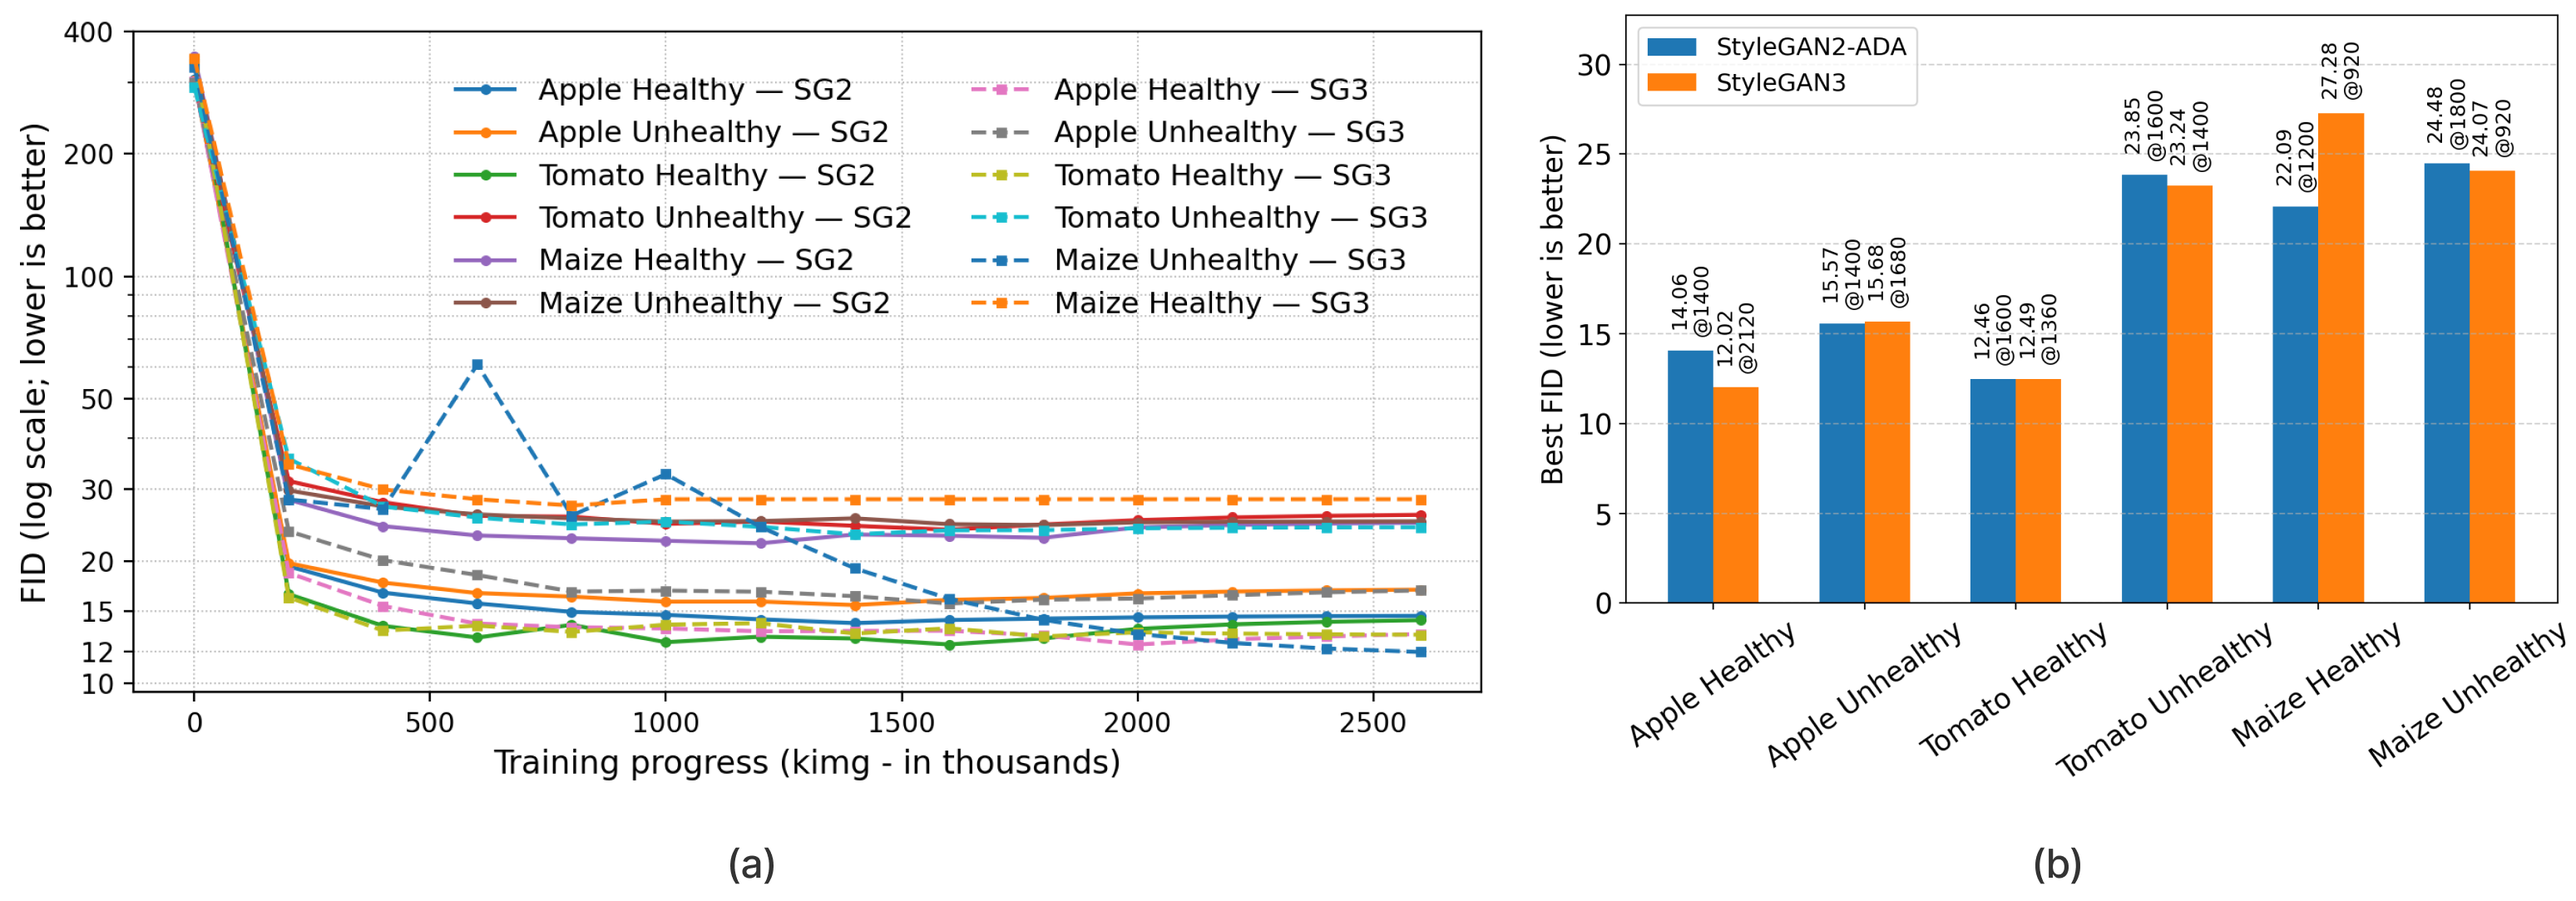
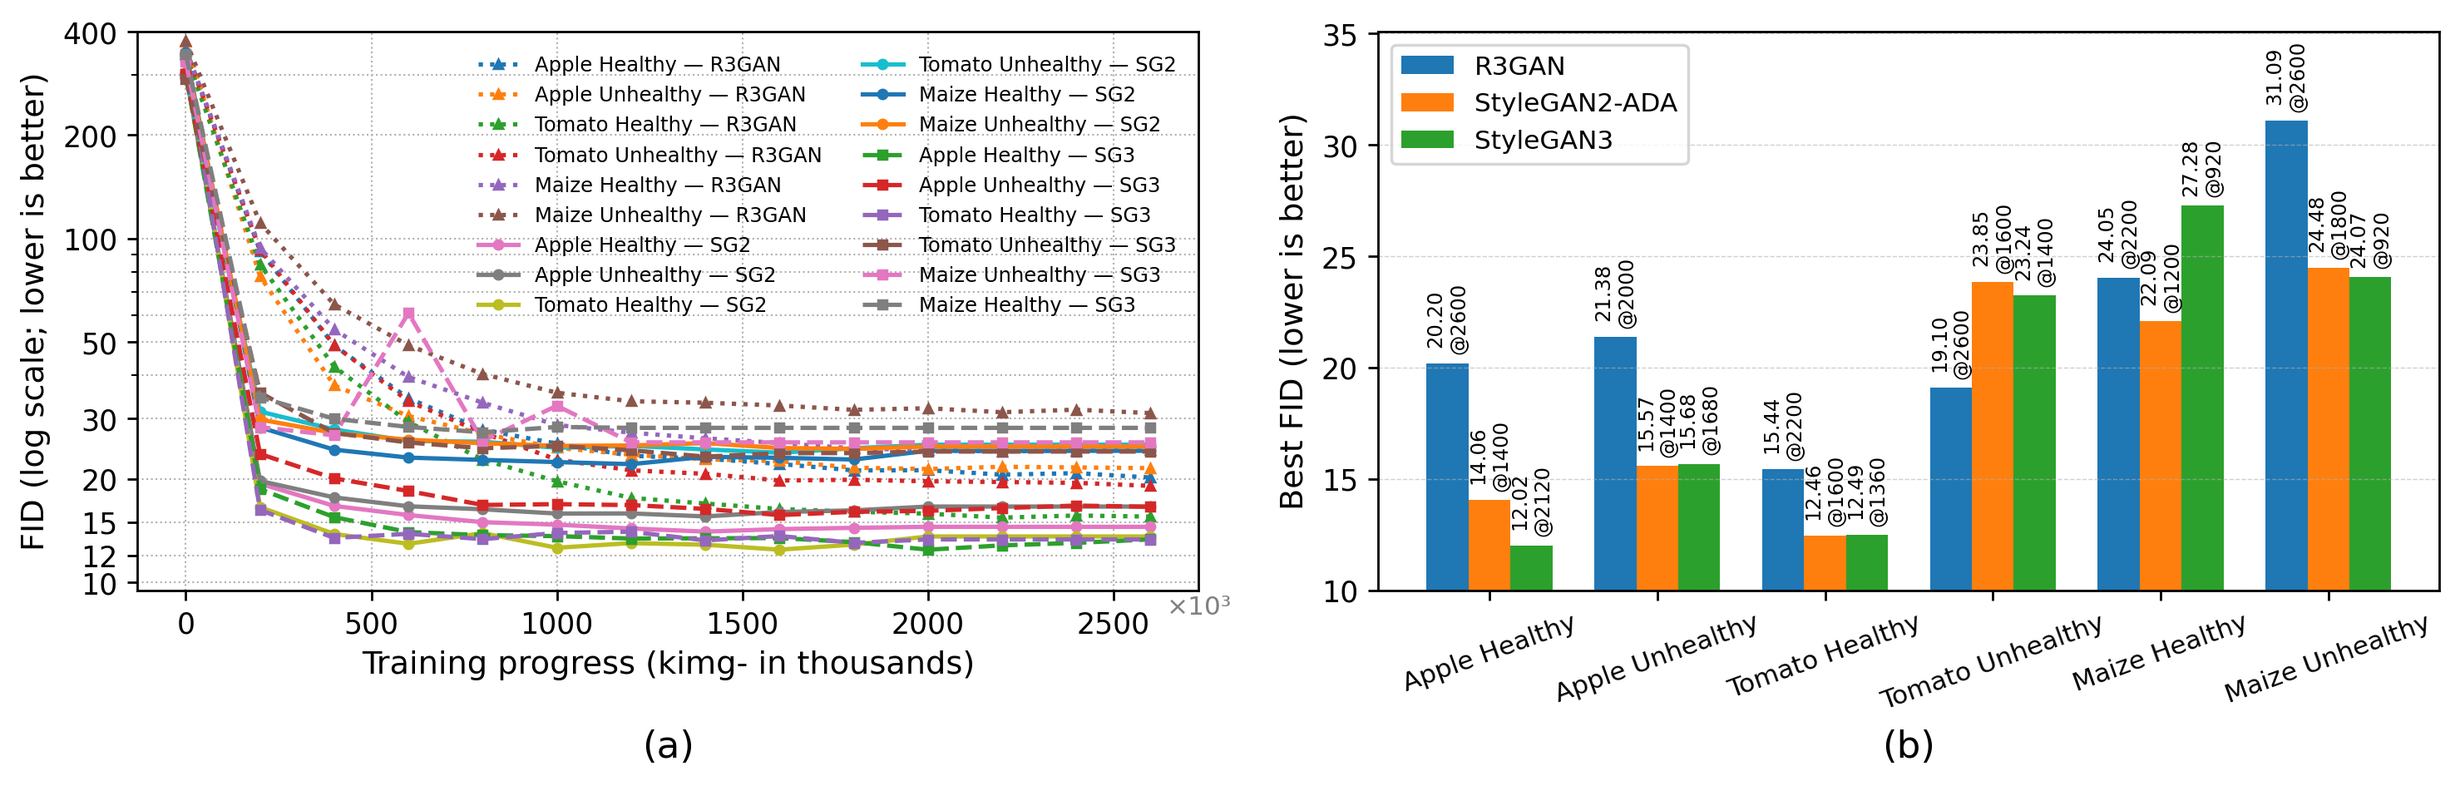
index and readme file update

diff --git a/index.html b/index.html
@@ -131,6 +131,22 @@
 
     pre{background:var(--soft);border:1px solid var(--line);border-radius:10px;padding:14px;overflow:auto}
     footer{padding:34px 0;text-align:center;color:var(--muted);font-size:14px}
+
+    /* data tables */
+    .table-wrap{max-width:980px;margin:8px auto 4px;overflow-x:auto;border:1px solid var(--line);border-radius:12px}
+    table.data{border-collapse:collapse;width:100%;font-size:14px;line-height:1.45;min-width:560px}
+    table.data caption{caption-side:top;text-align:left;font-weight:600;color:var(--text);padding:12px 14px 8px;font-size:15px}
+    table.data th,table.data td{padding:8px 12px;text-align:center;border-bottom:1px solid var(--line);white-space:nowrap}
+    table.data thead th{background:var(--soft);font-family:"Google Sans",sans-serif;font-weight:600;position:sticky;top:0}
+    table.data th:first-child,table.data td:first-child{text-align:left}
+    table.data tbody tr:hover{background:rgba(127,127,127,.06)}
+    table.data td.best{font-weight:700;color:var(--text)}
+    .table-note{max-width:980px;margin:6px auto 0;color:var(--muted);font-size:13px;line-height:1.5}
+    .row-group td{border-top:2px solid var(--line)}
+
+    /* framework figure row */
+    .grid-3{display:grid;grid-template-columns:1fr;gap:16px}
+    @media (min-width:920px){ .grid-3{grid-template-columns:1fr 1fr 1fr} }
   </style>
 </head>
 <body>
@@ -182,11 +198,20 @@
       </p>
     </div>
 
-    <div class="grid-2 figure">
-      <img src="static/images/pipeline_simplified.png" alt="Simplified pipeline: Original & Synthetic images feed a classifier." />
-      <img src="static/images/framework_overview.png" alt="High-level framework overview diagram." />
-    </div>
-    <p class="caption">Left: simplified adversarial image generation → detection / attribution pipeline. Right: framework overview across crops and generators.</p>
+    <figure class="figure-full">
+      <img src="static/images/simplifies_diagram.png" alt="AgriVision authenticity and source-attribution workflow for agriculture." />
+      <figcaption class="caption">AgriVision authenticity and source-attribution workflow: real and synthetic leaf images feed a classifier that outputs both an authenticity decision and a generator-source attribution.</figcaption>
+    </figure>
+
+    <figure class="figure-full" style="margin-top:18px">
+      <img src="static/images/leaf_fake_image_detection.png" alt="Overview of the synthetic leaf image generation and classification framework." />
+      <figcaption class="caption">Detailed framework: GAN (StyleGAN2/3, R3GAN) and diffusion (Instruct-Pix2Pix, BLIP-Diffusion, DreamShaper-8) pipelines build a synthetic corpus that is combined with real PlantVillage imagery to train and evaluate the detection / attribution classifiers.</figcaption>
+    </figure>
+
+    <figure class="figure-full" style="margin-top:18px">
+      <img src="static/images/threat_model.png" alt="Threat model for synthetic image injection in agricultural cyber-physical systems." />
+      <figcaption class="caption">Threat model: an adversary injects synthetic leaf images into either the training corpus (poisoning) or the operational image stream (inference), while the defender's classifier outputs authenticity labels and generator-source attributions for downstream CPS components.</figcaption>
+    </figure>
 
     <div class="content">
       <p>
@@ -235,10 +260,10 @@
       <figure class="result-card">
         <span class="result-label">(a)</span>
         <div class="img-wrap">
-          <img src="static/images/gan_fid_synthetic.png" alt="Best FID and FID trajectories for StyleGAN2-ADA vs StyleGAN3 across crops." />
+          <img src="static/images/gan_fid_synthetic_trends.png" alt="FID trajectories over training progress for R3GAN, StyleGAN2, and StyleGAN3." />
         </div>
         <figcaption class="caption">
-          Best FID (bars) and FID vs kimg (lines) across Apple, Tomato, and Maize for R3GAN, StyleGAN2-ADA, and StyleGAN3.
+          FID trajectories over training progress for R3GAN, StyleGAN2, and StyleGAN3 (lower is better). StyleGAN3 converges smoothly; StyleGAN2 is competitive on complex maize; R3GAN converges more slowly but monotonically.
         </figcaption>
       </figure>
 
@@ -246,53 +271,148 @@
       <figure class="result-card">
         <span class="result-label">(b)</span>
         <div class="img-wrap">
-          <img src="static/images/fid_vs_kimg_all_in_one_V2.png" alt="FID vs kimg curves across datasets." />
+          <img src="static/images/gan_fid_synthetic_best.png" alt="Best FID achieved by each GAN model and class." />
         </div>
         <figcaption class="caption">
-          FID training curves (lower is better) across all six crop–health datasets.
-        </figcaption>
-      </figure>
-
-      <!-- (c) -->
-      <figure class="result-card">
-        <span class="result-label">(c)</span>
-        <div class="img-wrap">
-          <img src="static/images/fid_vs_kimg_all_in_one.png" alt="Additional FID vs kimg trends." />
-        </div>
-        <figcaption class="caption">
-          Additional FID trends showing convergence and stability differences.
+          Best FID achieved by each model and crop–health class across Apple, Tomato, and Maize.
         </figcaption>
       </figure>
     </div>
 
-    <!-- Qualitative grid -->
-    <h3 class="title is-4">Qualitative (Real vs Synthetic)</h3>
+    <!-- Generalization to unseen generators -->
+    <h3 class="title is-4">Generalization to Unseen Generators</h3>
     <figure class="figure-full">
       <span class="figure-label">(d)</span>
-      <img src="static/images/leaf_fake_image_detection.png" alt="Real vs synthetic (Pix2Pix, BLIP, DS8, StyleGAN2, StyleGAN3) examples across crops and health." />
+      <img src="static/images/generalization_robustness.png" alt="Mapped accuracy under unseen R3GAN and DreamShaper-8 generators for binary authenticity and source-attribution tasks." />
       <figcaption class="caption">
-        Real and synthetic leaves across crops (Apple, Maize, Tomato) and health (H/Un). Diffusion pipelines
-        yield minimally edited, high-fidelity images; StyleGAN3 often improves texture realism, while R3GAN
-        produces perceptually realistic yet slightly smoother textures.
+        Mapped accuracy on the held-out R3GAN and DreamShaper-8 generators for binary authenticity and source
+        attribution. CNN source accuracy drops markedly (e.g., maize falls to 83.81% / 75.60%), and CLIP source
+        attribution collapses on maize (49.75%) and tomato (47.66%) — yet CLIP leads binary authenticity on
+        unseen apple (100%) and maize (98.71%), exposing complementary, plant-specific failure modes.
       </figcaption>
     </figure>
 
-    <!-- Quantitative table -->
-    <h3 class="title is-4">Model Performance Summary</h3>
+    <!-- Qualitative explainability -->
+    <h3 class="title is-4">Qualitative Explainability</h3>
     <p class="content">
-      The table below summarizes Accuracy / F1 / Precision / Recall / Loss for CLIP, ResNet-50, and EfficientNet-B0
-      on Binary, Generation, and Detailed tasks across crops (in-distribution validation splits).
+      Grad-CAM maps for the CNNs and transformer attention for CLIP on the binary authenticity task
+      (apple validation split). CNNs attend to leaf venation, edges, texture, and border regions, while
+      CLIP attention is more diffuse and can focus on broad leaf structure even when its prediction is wrong.
     </p>
+    <div class="grid-3 figure">
+      <div>
+        <img src="static/images/explainability/Apple_binary_resnet50_20251122_020646_true-Real_pred-Real_notext.png" alt="ResNet-50 Grad-CAM on a real apple leaf." style="width:100%;border-radius:10px" />
+        <img src="static/images/explainability/Apple_binary_resnet50_20251122_020646_true-Synthetic_pred-Synthetic_notext.png" alt="ResNet-50 Grad-CAM on a synthetic apple leaf." style="width:100%;border-radius:10px;margin-top:8px" />
+        <p class="caption">ResNet-50 (Grad-CAM): real (top) &amp; synthetic (bottom)</p>
+      </div>
+      <div>
+        <img src="static/images/explainability/Apple_binary_efficientnet_b0_20251122_031953_true-Real_pred-Real_notext.png" alt="EfficientNet-B0 Grad-CAM on a real apple leaf." style="width:100%;border-radius:10px" />
+        <img src="static/images/explainability/Apple_binary_efficientnet_b0_20251122_031953_true-Synthetic_pred-Synthetic_notext.png" alt="EfficientNet-B0 Grad-CAM on a synthetic apple leaf." style="width:100%;border-radius:10px;margin-top:8px" />
+        <p class="caption">EfficientNet-B0 (Grad-CAM): real (top) &amp; synthetic (bottom)</p>
+      </div>
+      <div>
+        <img src="static/images/explainability/Apple_binary_clip_20251122_043136_attention_true-Real_pred-Synthetic_notext.png" alt="CLIP attention on a real apple leaf misclassified as synthetic." style="width:100%;border-radius:10px" />
+        <img src="static/images/explainability/Apple_binary_clip_20251122_043136_attention_true-Synthetic_pred-Synthetic_notext.png" alt="CLIP attention on a synthetic apple leaf." style="width:100%;border-radius:10px;margin-top:8px" />
+        <p class="caption">CLIP (attention): real (top) &amp; synthetic (bottom)</p>
+      </div>
+    </div>
+
+    <!-- Quantitative summary figure -->
+    <h3 class="title is-4">Model Performance Summary</h3>
     <figure class="figure-full">
       <span class="figure-label">(e)</span>
-      <img src="static/images/results_table.png" alt="Model performance table across plants and classification types." />
+      <img src="static/images/model_performance_summary.png" alt="In-distribution validation performance by model, plant, and task (support-weighted F1)." />
       <figcaption class="caption">
-        In-distribution, EfficientNet-B0 and ResNet-50 reach near-saturated accuracy across tasks, while CLIP
-        remains competitive on detailed attribution but lags on the imbalanced binary authenticity task.
-        These near-perfect scores reflect controlled imagery and known generators — accuracy falls on unseen
-        generators (R3GAN, DreamShaper-8).
+        In-distribution validation performance (support-weighted F1) by model, plant, and task. EfficientNet-B0
+        and ResNet-50 reach near-saturated accuracy across tasks, while CLIP remains competitive on detailed
+        attribution but lags on the imbalanced binary authenticity task. These near-perfect scores reflect
+        controlled imagery and known generators — accuracy falls on unseen generators (R3GAN, DreamShaper-8).
       </figcaption>
     </figure>
+
+    <!-- Table 5: exact in-distribution metrics -->
+    <div class="table-wrap">
+      <table class="data">
+        <caption>Table 5. Exact in-distribution validation metrics by plant, task, and classifier architecture. F1 is support-weighted; AUROC is macro one-vs-rest for multi-class tasks.</caption>
+        <thead>
+          <tr><th>Plant</th><th>Task</th><th>Architecture</th><th>Accuracy (%)</th><th>Weighted F1 (%)</th><th>AUROC</th></tr>
+        </thead>
+        <tbody>
+          <tr class="row-group"><td rowspan="9">Apple</td><td rowspan="3">Binary</td><td>ResNet-50</td><td>99.99</td><td>99.99</td><td>1.0000</td></tr>
+          <tr><td>EfficientNet-B0</td><td class="best">100.00</td><td class="best">100.00</td><td>1.0000</td></tr>
+          <tr><td>CLIP ViT-B/32</td><td>96.00</td><td>94.04</td><td>0.6892</td></tr>
+          <tr><td rowspan="3">Source</td><td>ResNet-50</td><td>100.00</td><td>100.00</td><td>1.0000</td></tr>
+          <tr><td>EfficientNet-B0</td><td>100.00</td><td>100.00</td><td>1.0000</td></tr>
+          <tr><td>CLIP ViT-B/32</td><td>82.65</td><td>82.00</td><td>0.8827</td></tr>
+          <tr><td rowspan="3">Detailed</td><td>ResNet-50</td><td class="best">98.57</td><td class="best">98.57</td><td>0.9997</td></tr>
+          <tr><td>EfficientNet-B0</td><td>98.36</td><td>98.36</td><td>0.9997</td></tr>
+          <tr><td>CLIP ViT-B/32</td><td>93.90</td><td>93.42</td><td>0.9929</td></tr>
+          <tr class="row-group"><td rowspan="9">Maize</td><td rowspan="3">Binary</td><td>ResNet-50</td><td class="best">99.95</td><td class="best">99.95</td><td>1.0000</td></tr>
+          <tr><td>EfficientNet-B0</td><td>99.93</td><td>99.93</td><td>0.9998</td></tr>
+          <tr><td>CLIP ViT-B/32</td><td>95.48</td><td>93.83</td><td>0.6744</td></tr>
+          <tr><td rowspan="3">Source</td><td>ResNet-50</td><td class="best">99.97</td><td class="best">99.97</td><td>1.0000</td></tr>
+          <tr><td>EfficientNet-B0</td><td>99.93</td><td>99.93</td><td>1.0000</td></tr>
+          <tr><td>CLIP ViT-B/32</td><td>91.90</td><td>92.49</td><td>0.9550</td></tr>
+          <tr><td rowspan="3">Detailed</td><td>ResNet-50</td><td class="best">99.83</td><td class="best">99.83</td><td>1.0000</td></tr>
+          <tr><td>EfficientNet-B0</td><td>99.78</td><td>99.78</td><td>1.0000</td></tr>
+          <tr><td>CLIP ViT-B/32</td><td>95.56</td><td>95.48</td><td>0.9945</td></tr>
+          <tr class="row-group"><td rowspan="9">Tomato</td><td rowspan="3">Binary</td><td>ResNet-50</td><td class="best">99.95</td><td class="best">99.95</td><td>1.0000</td></tr>
+          <tr><td>EfficientNet-B0</td><td>99.94</td><td>99.94</td><td>0.9999</td></tr>
+          <tr><td>CLIP ViT-B/32</td><td>86.21</td><td>89.44</td><td>0.7959</td></tr>
+          <tr><td rowspan="3">Source</td><td>ResNet-50</td><td class="best">99.99</td><td class="best">99.99</td><td>1.0000</td></tr>
+          <tr><td>EfficientNet-B0</td><td>99.96</td><td>99.96</td><td>1.0000</td></tr>
+          <tr><td>CLIP ViT-B/32</td><td>91.68</td><td>92.45</td><td>0.9602</td></tr>
+          <tr><td rowspan="3">Detailed</td><td>ResNet-50</td><td class="best">99.30</td><td class="best">99.30</td><td>0.9999</td></tr>
+          <tr><td>EfficientNet-B0</td><td>99.26</td><td>99.26</td><td>0.9999</td></tr>
+          <tr><td>CLIP ViT-B/32</td><td>95.44</td><td>94.97</td><td>0.9930</td></tr>
+        </tbody>
+      </table>
+    </div>
+    <p class="table-note"><strong>Bold</strong> marks the best architecture per plant–task on accuracy / weighted F1.</p>
+
+    <!-- Table 6: aggregated validation metrics -->
+    <div class="table-wrap" style="margin-top:22px">
+      <table class="data">
+        <caption>Table 6. In-distribution validation metrics aggregated across plants (30,000 validation images per task/architecture). Accuracy is reported with a 95% CI.</caption>
+        <thead>
+          <tr><th>Task</th><th>Model</th><th>Accuracy 95% CI</th><th>F1<sub>w</sub></th><th>MCC</th><th>AUROC</th><th>ECE</th><th>Brier</th></tr>
+        </thead>
+        <tbody>
+          <tr class="row-group"><td rowspan="3">Binary</td><td>CLIP</td><td>0.9256 [0.9226, 0.9285]</td><td>0.9244</td><td>0.0457</td><td>0.7199</td><td>0.2394</td><td>0.2768</td></tr>
+          <tr><td>EfficientNet-B0</td><td>0.9996 [0.9993, 0.9997]</td><td>0.9996</td><td>0.9944</td><td>0.9999</td><td>0.0003</td><td>0.0007</td></tr>
+          <tr><td>ResNet-50</td><td>0.9996 [0.9993, 0.9998]</td><td>0.9996</td><td>0.9953</td><td>1.0000</td><td>0.0005</td><td>0.0005</td></tr>
+          <tr class="row-group"><td rowspan="3">Detailed</td><td>CLIP</td><td>0.9497 [0.9471, 0.9521]</td><td>0.9462</td><td>0.9431</td><td>0.9935</td><td>0.0394</td><td>0.0888</td></tr>
+          <tr><td>EfficientNet-B0</td><td>0.9913 [0.9902, 0.9923]</td><td>0.9913</td><td>0.9902</td><td>0.9998</td><td>0.0051</td><td>0.0139</td></tr>
+          <tr><td>ResNet-50</td><td>0.9923 [0.9913, 0.9933]</td><td>0.9923</td><td>0.9913</td><td>0.9999</td><td>0.0047</td><td>0.0125</td></tr>
+          <tr class="row-group"><td rowspan="3">Source</td><td>CLIP</td><td>0.8874 [0.8838, 0.8910]</td><td>0.8898</td><td>0.7979</td><td>0.9327</td><td>0.0580</td><td>0.1790</td></tr>
+          <tr><td>EfficientNet-B0</td><td>0.9996 [0.9993, 0.9998]</td><td>0.9996</td><td>0.9993</td><td>1.0000</td><td>0.0004</td><td>0.0007</td></tr>
+          <tr><td>ResNet-50</td><td>0.9999 [0.9997, 0.9999]</td><td>0.9999</td><td>0.9998</td><td>1.0000</td><td>0.0002</td><td>0.0002</td></tr>
+        </tbody>
+      </table>
+    </div>
+    <p class="table-note">CLIP shows much higher calibration error (ECE) and lower MCC on the imbalanced binary task; CNNs remain near-perfect and well-calibrated in-distribution.</p>
+
+    <!-- Table 7: statistical reliability -->
+    <div class="table-wrap" style="margin-top:22px">
+      <table class="data">
+        <caption>Table 7. Statistical reliability of the strongest in-distribution checkpoint per plant and task. Accuracy and macro F1 with 95% nonparametric bootstrap CIs over the reconstructed validation split (n = 10,000).</caption>
+        <thead>
+          <tr><th>Plant</th><th>Task</th><th>Best architecture</th><th>Accuracy 95% CI</th><th>Macro F1 95% CI</th></tr>
+        </thead>
+        <tbody>
+          <tr class="row-group"><td rowspan="3">Apple</td><td>Binary</td><td>EfficientNet-B0</td><td>100.00 [100.00, 100.00]</td><td>1.0000 [1.0000, 1.0000]</td></tr>
+          <tr><td>Source</td><td>ResNet-50 / EfficientNet-B0</td><td>100.00 [100.00, 100.00]</td><td>1.0000 [1.0000, 1.0000]</td></tr>
+          <tr><td>Detailed</td><td>ResNet-50</td><td>98.57 [98.34, 98.80]</td><td>0.9881 [0.9862, 0.9900]</td></tr>
+          <tr class="row-group"><td rowspan="3">Maize</td><td>Binary</td><td>ResNet-50</td><td>99.95 [99.90, 99.99]</td><td>0.9968 [0.9936, 0.9994]</td></tr>
+          <tr><td>Source</td><td>ResNet-50</td><td>99.97 [99.93, 100.00]</td><td>0.9986 [0.9969, 1.0000]</td></tr>
+          <tr><td>Detailed</td><td>ResNet-50</td><td>99.83 [99.74, 99.90]</td><td>0.9986 [0.9979, 0.9992]</td></tr>
+          <tr class="row-group"><td rowspan="3">Tomato</td><td>Binary</td><td>ResNet-50</td><td>99.95 [99.90, 99.99]</td><td>0.9968 [0.9936, 0.9993]</td></tr>
+          <tr><td>Source</td><td>ResNet-50</td><td>99.99 [99.97, 100.00]</td><td>0.9995 [0.9986, 1.0000]</td></tr>
+          <tr><td>Detailed</td><td>ResNet-50</td><td>99.30 [99.12, 99.46]</td><td>0.9927 [0.9905, 0.9947]</td></tr>
+        </tbody>
+      </table>
+    </div>
+    <p class="table-note">Paired McNemar tests (Holm-corrected) find ResNet-50 and EfficientNet-B0 statistically indistinguishable in every plant/task, while both CNNs significantly outperform CLIP (accuracy gaps of 3.82–17.35 pp).</p>
 
   </div>
 </section>
